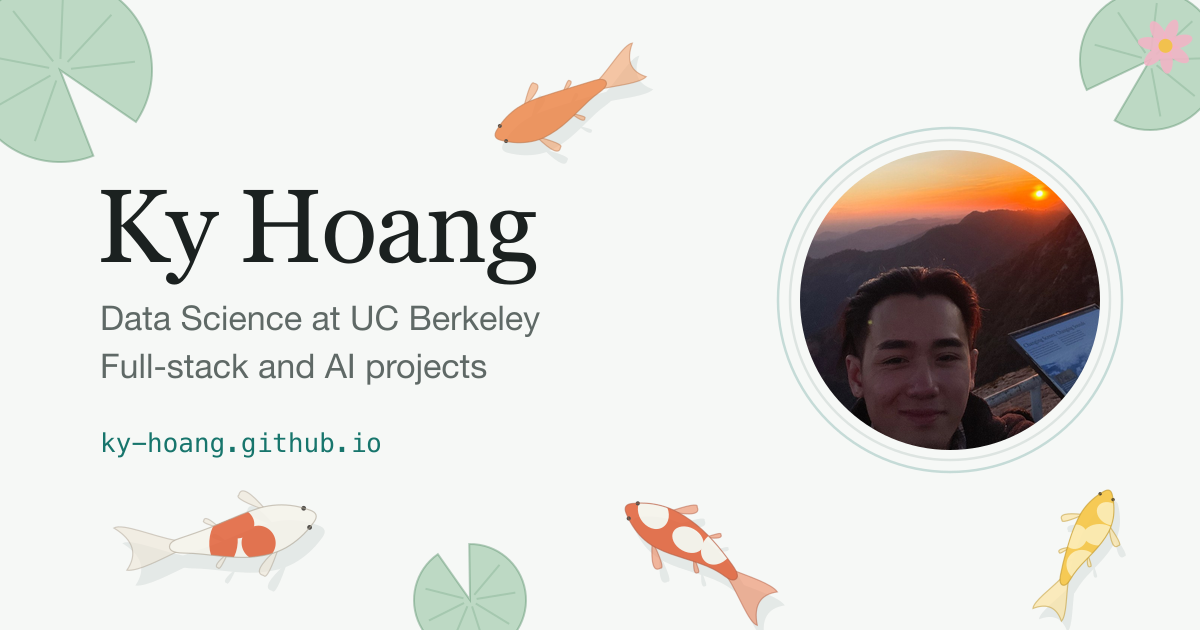
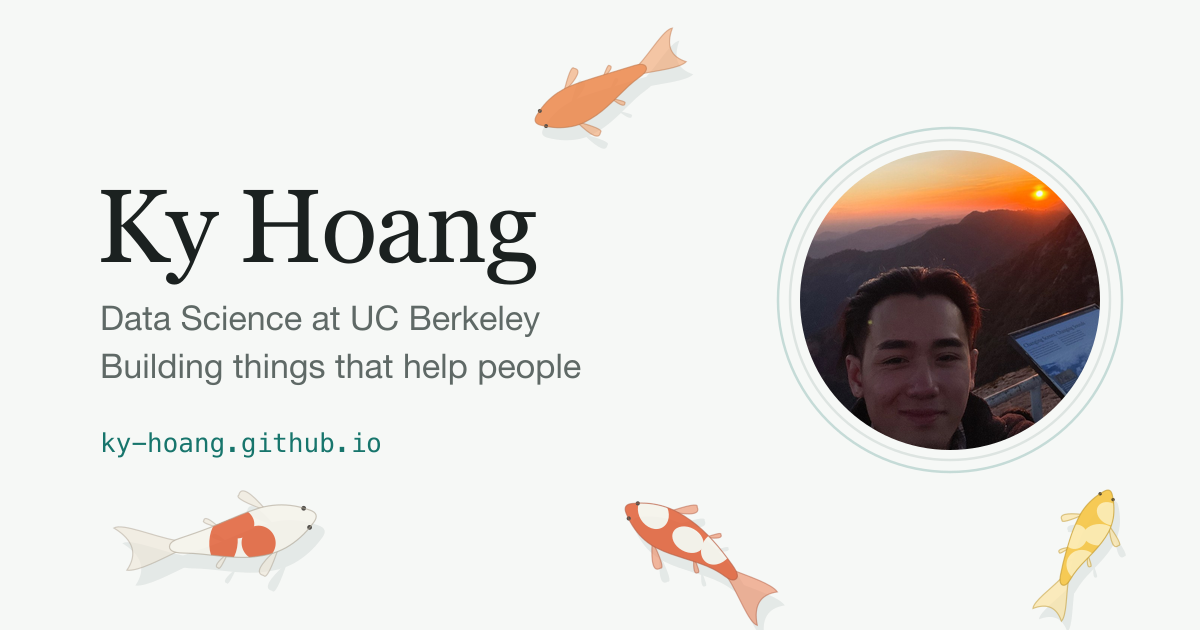
Warmer intro, new About text, footer quote; drop lily pads and photo rings
- Home intro rewritten in Ky's voice, with a 👋 that waves once.
- About page opening rewritten: Aarhus to the Bay Area, hackathons,
  and the Sequoia trip where the photo was taken.
- Footer carries Conan O'Brien's "Work hard, be kind, and amazing
  things will happen." and a shorter pond hint (click or tap).
- Lily pads removed from the pond and the link preview card.
- Profile photo is now still: no float, no pulsing rings.
- Search description is its own field in site.ts.

diff --git a/src/pond/draw.ts b/src/pond/draw.ts
@@ -1,14 +1,13 @@
 /*
   How everything in the pond looks. Everything is drawn with shapes in
-  code, so there are no image files. Koi and lily pads are seen from above,
-  which lets the koi face any direction.
+  code, so there are no image files. Koi are seen from above, which lets
+  them face any direction.
 
   Colors for the creatures live here rather than in tokens.css, because a
   canvas cannot read CSS variables cheaply on every frame.
 */
 
 import type { Creature, Kind, Treat } from "./creatures";
-import { seeded, type Pad } from "./scenery";
 
 const TAU = Math.PI * 2;
 
@@ -39,6 +38,12 @@ const SPINE = 9;
 const PROFILE = [0.55, 0.86, 1, 0.98, 0.88, 0.72, 0.54, 0.38, 0.26];
 const spineX = new Array<number>(SPINE).fill(0);
 const spineY = new Array<number>(SPINE).fill(0);
+
+/** A repeatable "random" number from 0 to 1, so each koi keeps its own pattern */
+function seeded(seed: number, n: number): number {
+  const x = Math.sin(seed * 9301 + n * 49297) * 233280;
+  return x - Math.floor(x);
+}
 
 /** Traces a smooth closed outline through a list of points */
 function smoothOutline(path: Path2D, points: number[][]): void {
@@ -309,68 +314,4 @@ export function drawRipple(
   ctx.beginPath();
   ctx.arc(x, y, 6 + reach * spread, 0, TAU);
   ctx.stroke();
-}
-
-// ---------- Lily pads ----------
-
-/** Green by day; by night, a dark shape the fireflies pass over */
-const PAD_LOOKS = {
-  koi: { leaf: "#8fbf9a", edge: "#5d9470", petal: "#f3b3c6", heart: "#f2c14e", opacity: 0.5 },
-  firefly: { leaf: "#1a3531", edge: "#2c544d", petal: "#7d6a80", heart: "#b98f3c", opacity: 0.75 },
-} as const;
-
-const NOTCH = 0.3; // half the width of the gap in the leaf, in radians
-const VEINS = 7;
-const PETALS = 7;
-
-/** A round leaf with a notch, a few veins, and sometimes a flower. It sways a little. */
-export function drawLilyPad(ctx: CanvasRenderingContext2D, pad: Pad, kind: Kind, now: number, fade: number): void {
-  const look = PAD_LOOKS[kind];
-  const r = pad.radius;
-
-  ctx.save();
-  ctx.translate(pad.x, pad.y);
-  ctx.rotate(pad.turn + Math.sin(now / 2600 + pad.sway * TAU) * 0.06);
-
-  ctx.beginPath();
-  ctx.moveTo(0, 0);
-  ctx.arc(0, 0, r, NOTCH, TAU - NOTCH);
-  ctx.closePath();
-  ctx.globalAlpha = look.opacity * fade;
-  ctx.fillStyle = look.leaf;
-  ctx.fill();
-  ctx.globalAlpha = look.opacity * 0.7 * fade;
-  ctx.strokeStyle = look.edge;
-  ctx.lineWidth = 1;
-  ctx.stroke();
-
-  // Veins fanning out from the middle, away from the notch
-  ctx.globalAlpha = look.opacity * 0.35 * fade;
-  ctx.beginPath();
-  for (let n = 0; n < VEINS; n++) {
-    const angle = NOTCH + ((n + 1) / (VEINS + 1)) * (TAU - NOTCH * 2);
-    ctx.moveTo(Math.cos(angle) * r * 0.12, Math.sin(angle) * r * 0.12);
-    ctx.lineTo(Math.cos(angle) * r * 0.82, Math.sin(angle) * r * 0.82);
-  }
-  ctx.stroke();
-
-  if (pad.flower) {
-    // Sits on the side of the leaf opposite the notch
-    const flowerX = -r * 0.3;
-    ctx.globalAlpha = Math.min(1, look.opacity * 1.5) * fade;
-    ctx.fillStyle = look.petal;
-    ctx.beginPath();
-    for (let n = 0; n < PETALS; n++) {
-      const angle = (n / PETALS) * TAU;
-      const reach = r * 0.2;
-      ctx.ellipse(flowerX + Math.cos(angle) * reach, Math.sin(angle) * reach, r * 0.2, r * 0.09, angle, 0, TAU);
-    }
-    ctx.fill();
-    ctx.fillStyle = look.heart;
-    ctx.beginPath();
-    ctx.arc(flowerX, 0, r * 0.1, 0, TAU);
-    ctx.fill();
-  }
-
-  ctx.restore();
 }

diff --git a/src/pond/pond.ts b/src/pond/pond.ts
@@ -10,13 +10,11 @@
 
   Light mode shows koi, dark mode shows fireflies. Double-click (or
   double-tap) an empty spot to drop a treat. A single click touches the
-  water, and any creature close by darts away. Lily pads float at the
-  sides (see scenery.ts).
+  water, and any creature close by darts away.
 */
 
 import { createCreature, mouthOf, startle, stepCreature, type Creature, type Kind, type World } from "./creatures";
-import { drawFirefly, drawKoi, drawLilyPad, drawRipple, drawTreat } from "./draw";
-import { placePads, type Pad } from "./scenery";
+import { drawFirefly, drawKoi, drawRipple, drawTreat } from "./draw";
 
 const TREAT_BITES = 5; // bites before a treat is gone
 const TREAT_LASTS = 20_000; // ms before an uneaten treat disappears
@@ -65,7 +63,6 @@ export function startPond(canvas: HTMLCanvasElement): void {
 
   const creatures: Creature[] = [];
   const ripples: Ripple[] = [];
-  let pads: Pad[] = [];
 
   let kind = kindForTheme(); // which skin is showing
   let fade = 1; // 0 = invisible, 1 = fully shown
@@ -108,8 +105,6 @@ export function startPond(canvas: HTMLCanvasElement): void {
     canvas.width = Math.round(world.width * sharpness);
     canvas.height = Math.round(world.height * sharpness);
     ctx!.setTransform(sharpness, 0, 0, sharpness, 0, 0);
-
-    pads = placePads(world.width, world.height);
 
     const wanted = Math.min(MAX_CREATURES, Math.round(world.height * perPixel));
     if (creatures.length === 0) {
@@ -201,18 +196,8 @@ export function startPond(canvas: HTMLCanvasElement): void {
     drawnTop = top;
     drawnBottom = bottom;
 
-    const drawPads = () => {
-      for (const pad of pads) {
-        if (inStrip(pad.y)) drawLilyPad(ctx!, pad, kind, now, fade);
-      }
-    };
-
-    // Fireflies fly over the lily pads, and their glows add their light
-    // together where they overlap. Koi swim under the pads, drawn last.
-    if (kind === "firefly") {
-      drawPads();
-      ctx!.globalCompositeOperation = "lighter";
-    }
+    // Glows add their light together where they overlap
+    ctx!.globalCompositeOperation = kind === "firefly" ? "lighter" : "source-over";
 
     for (const ripple of ripples) {
       if (!inStrip(ripple.y)) continue;
@@ -227,7 +212,6 @@ export function startPond(canvas: HTMLCanvasElement): void {
       else drawFirefly(ctx!, creature, fade);
     }
 
-    if (kind === "koi") drawPads();
     ctx!.globalCompositeOperation = "source-over";
     ctx!.globalAlpha = 1;
   }

diff --git a/src/content/site.ts b/src/content/site.ts
@@ -12,10 +12,14 @@ export const site = {
   // Shown in the top-left corner and in the browser tab
   name: "Ky Hoang",
 
-  // One or two sentences at the top of the home page.
-  // Also used as the description in search results and link previews.
+  // A few sentences at the top of the home page. A 👋 in it waves once
+  // when the page opens.
   intro:
-    "I'm a Data Science student at UC Berkeley who builds full-stack and AI projects, from a hackathon-winning maternal health monitor to a search tool for my own journal. I'm looking for software engineering internships.",
+    "Hi! I'm Ky 👋 Data Science student at UC Berkeley, hackathon regular, and happiest building things that help people. I'm looking for software engineering internships. Below are a few things I've made (and a pond you can feed).",
+
+  // One sentence about you for search results and link previews
+  description:
+    "Ky Hoang is a Data Science student at UC Berkeley who builds software that helps people, and is looking for software engineering internships.",
 
   // Shown as an Email link at the top of the home page and in the footer.
   // Leave as "" to hide it.

diff --git a/README.md b/README.md
@@ -19,12 +19,12 @@ A personal site built with [Astro](https://astro.build), plain CSS and TypeScrip
 | Add, remove or edit a link | Edit one line in `src/content/site.ts`. Each link can name an `icon` |
 | Add a new icon | Add an entry to the list in `src/components/Icon.astro` |
 | Change your photo | Replace `src/content/profile.jpg` with a square photo. Delete the file to show no photo |
-| Change your name or intro | `src/content/site.ts` |
+| Change your name, intro or search description | `src/content/site.ts` |
 | Edit the About page | `src/content/about.md` |
 | Add or swap your résumé | Save it as `public/resume.pdf`, and set `resume: "/resume.pdf"` in `src/content/site.ts` |
 | Change colors, fonts or widths | `src/styles/tokens.css` |
 | Change the link preview picture | Replace `public/og.png` (1200 × 630 pixels). This is the card shown when the site's address is pasted into a chat or a post |
-| Remove the pond | Delete `src/pond/`, the two Pond lines in `src/layouts/Base.astro`, and the hint in `src/components/Footer.astro` |
+| Remove the pond | Delete `src/pond/`, the two Pond lines in `src/layouts/Base.astro`, and the "Psst" hint in `src/components/Footer.astro` |
 
 The folder name of a project becomes its address: `src/content/projects/my-project/` is served at `/projects/my-project/`.
 
@@ -65,15 +65,14 @@ Commit your changes and push to the `main` branch. GitHub builds the site and pu
 
 ## The pond
 
-The background is one `<canvas>` behind the page, as tall as the page, that scrolls with it. Koi swim in light mode and fireflies drift in dark mode; double-click (or double-tap on a phone) an empty spot to drop food, or a spark at night. A single click touches the water, and anything close by darts away. Lily pads float at the sides, and once in a while one of the koi is a golden one that sparkles. The pond keeps going as you move between pages, holds still for visitors who have asked their device for reduced motion, and pauses when the tab is hidden.
+The background is one `<canvas>` behind the page, as tall as the page, that scrolls with it. Koi swim in light mode and fireflies drift in dark mode; double-click (or double-tap on a phone) an empty spot to drop food, or a spark at night. A single click touches the water, and anything close by darts away. Once in a while one of the koi is a golden one that sparkles. The pond keeps going as you move between pages, holds still for visitors who have asked their device for reduced motion, and pauses when the tab is hidden.
 
 | To change this | Look in |
 |---|---|
 | How many creatures, how long food lasts | The constants at the top of `src/pond/pond.ts` |
 | How fast they swim, how far they wander, how often a golden koi appears | `TUNING` and `RARE_CHANCE` in `src/pond/creatures.ts` |
-| How many lily pads, and where they sit | `src/pond/scenery.ts` |
-| Koi colors and opacity, firefly glow, lily pad colors | `KOI_LOOKS`, the firefly section and `PAD_LOOKS` in `src/pond/draw.ts` |
-| The hint in the footer | `src/components/Footer.astro` |
+| Koi colors and opacity, firefly glow | `KOI_LOOKS` and the firefly section of `src/pond/draw.ts` |
+| The hint and the quote in the footer | `src/components/Footer.astro` |
 
 ## Where things are
 
@@ -93,7 +92,6 @@ src/
 │   ├── Pond.astro        the canvas element and its placement
 │   ├── pond.ts           runs the pond: sizing, the frame loop, feeding, the cursor
 │   ├── creatures.ts      how creatures move
-│   ├── scenery.ts        where the lily pads sit
 │   └── draw.ts           how everything looks
 └── styles/               tokens.css (colors, fonts, widths) and global.css
 public/                   files served as they are: résumé, favicon, link preview picture

diff --git a/src/content/about.md b/src/content/about.md
@@ -1,8 +1,10 @@
-I'm a Data Science student at UC Berkeley, graduating in May 2028. I like building things end to end: a backend that does the real work, an interface people can use, and tests that keep it honest.
+I'm a Data Science student at UC Berkeley, graduating in May 2028. I grew up in Aarhus, Denmark, and have called the Bay Area home since I was 13.
 
-Most of my projects are in Python, with FastAPI on the server and React in the browser. I have also built a native macOS app in Swift and a procedurally generated game in Java.
+What I love most about software is building things that actually help people, especially alongside driven teammates. Lately, that's meant a lot of hackathons. I love the rush of a deadline and being on the same page with people who just want to get things done.
 
-I'm looking for software engineering internships.
+Most of my projects are in Python, with FastAPI on the server and React in the browser. I've also built a native macOS app in Swift and a procedurally generated game in Java.
+
+When I'm not building, I'm camping, backpacking or traveling. My favorite trip so far was Sequoia National Park, where I got to see the giant sequoias up close, then stayed on top of Moro Rock for the sunset and the stars. It's also where my profile picture was taken!
 
 ## Experience
 
